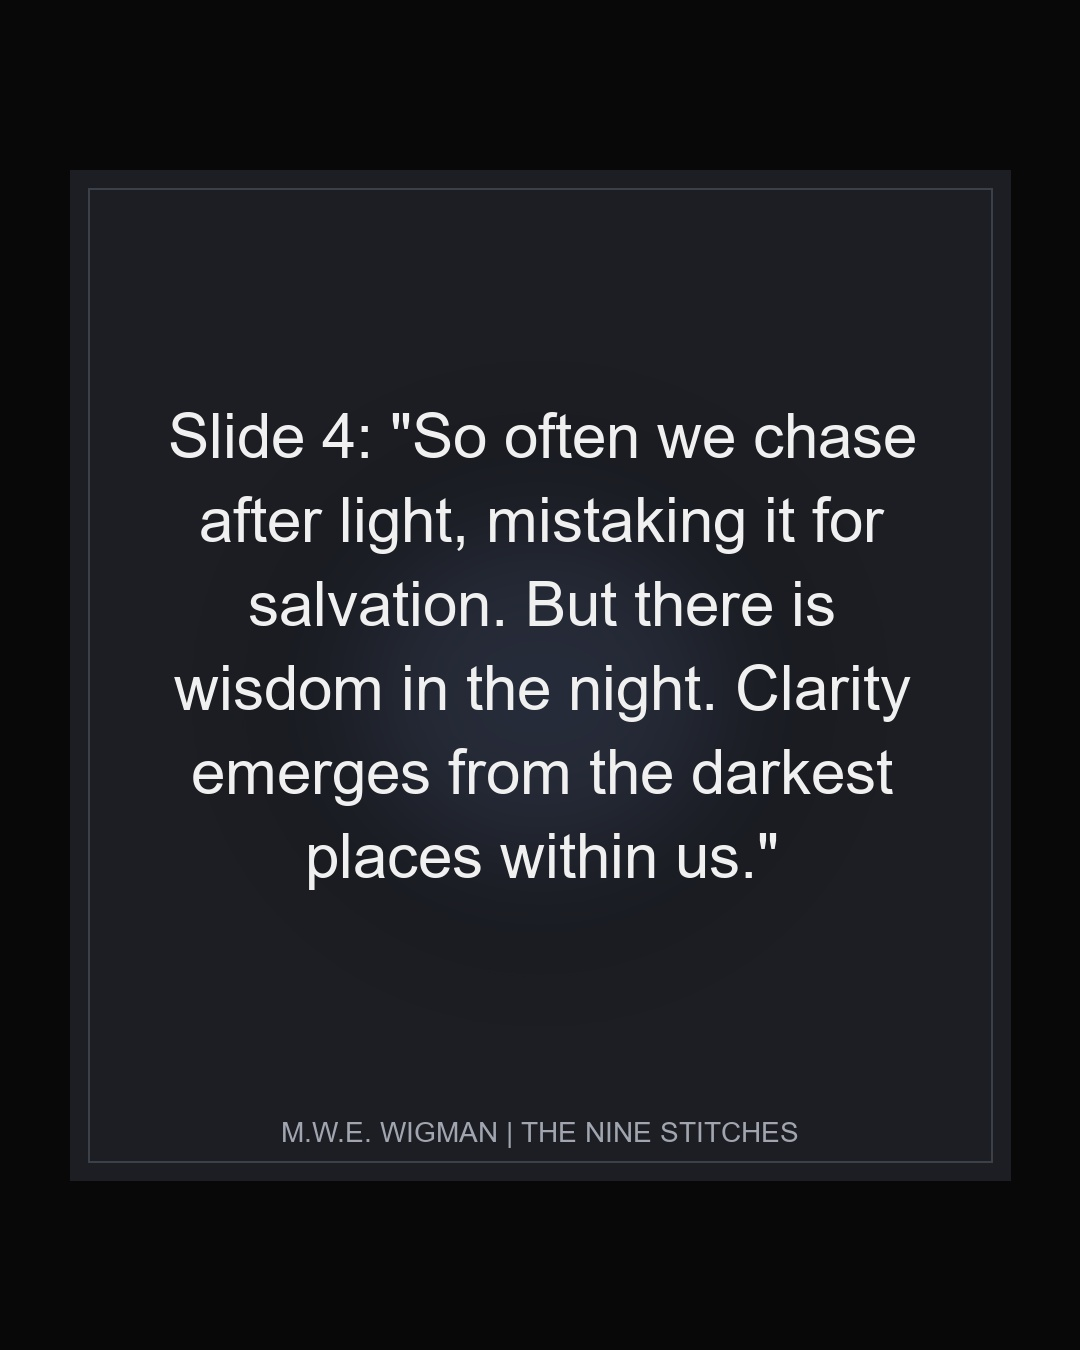
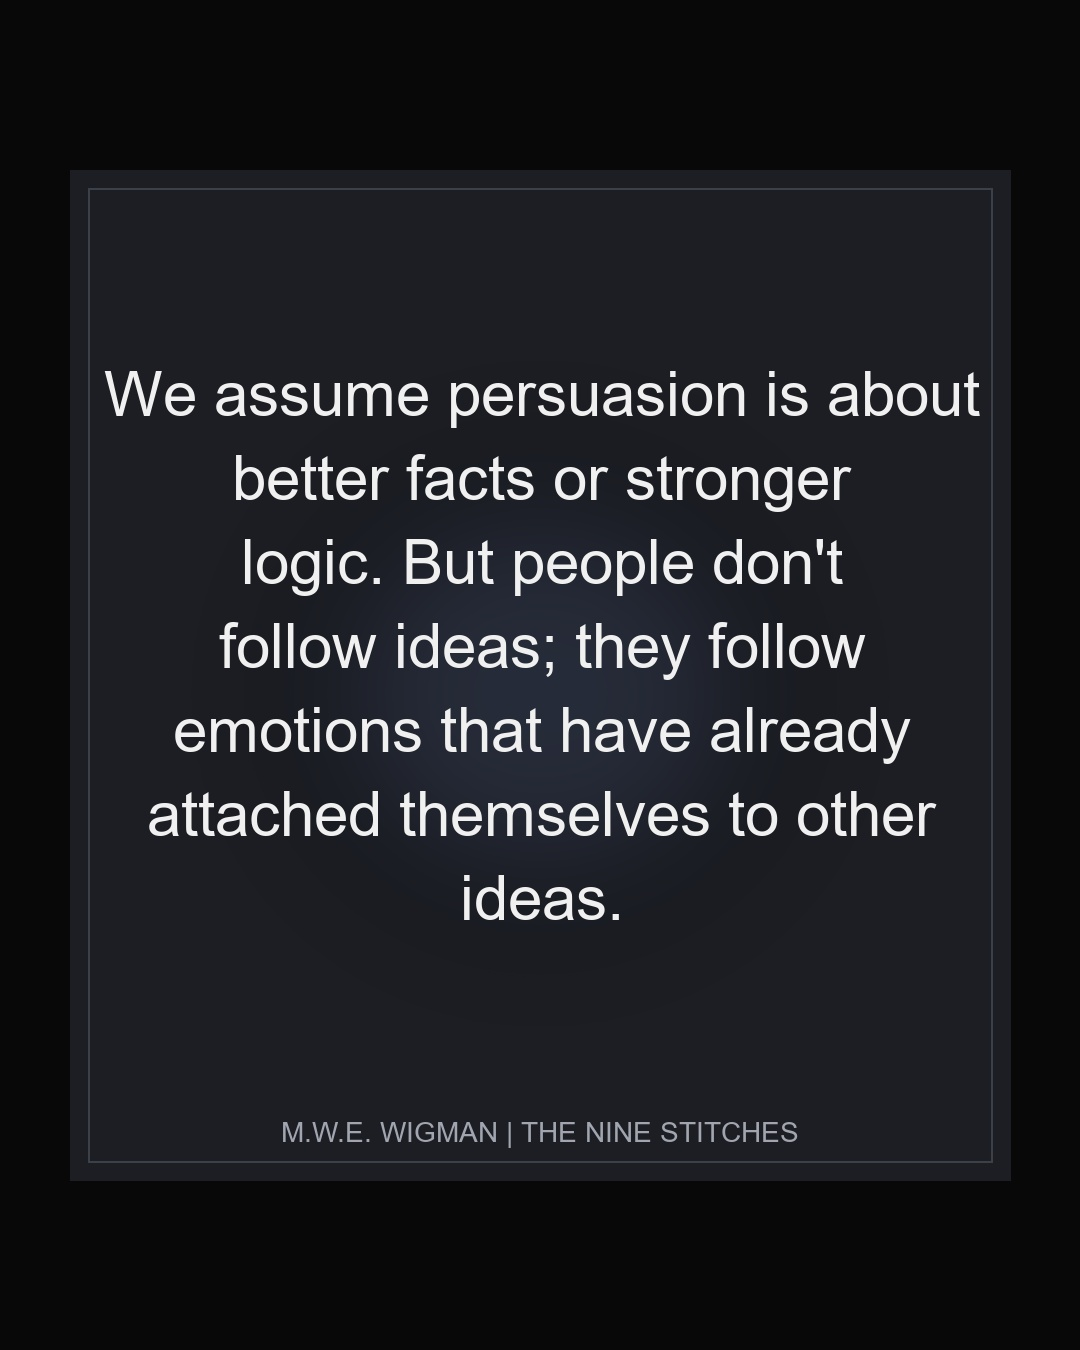
fix: regenerate LinkedIn carousel for post 75 with correct Ripples content
- bot.py: strip "Slide N:" prefix from AI Horde response
- generate_carousel_from_bundle.py: derive topic from caption text
  when topic/caption_prompt fields are missing (ensures slides match
  actual post content, not generic fallback)
- carousel.json: 5 slides for "Ripples and Resonance #17" with
  concise slide captions + summary post_caption
- carousel/: slide_1-5.jpg from carousel_20260912_045459
- state.json: post 75 removed from linkedin posted (re-post pending)

Changed region(s): [[0.0917, 0.28, 0.9167, 0.6844]]

diff --git a/scripts/generate_carousel_from_bundle.py b/scripts/generate_carousel_from_bundle.py
@@ -45,7 +45,23 @@ def main():
     if carousel_json.exists():
         print(f"⏭ carousel.json already exists for {post_id}. Skipping generation.")
         sys.exit(0)
-    topic = active.get("topic") or active.get("caption_prompt") or "Content"
+
+    # Derive topic from the bundle's caption text if topic/caption_prompt
+    # fields are missing — this ensures slides match the actual post content.
+    topic = active.get("topic") or active.get("caption_prompt")
+    caption_text = active.get("captions", {}).get("linkedin") or active.get("caption", "")
+    if not topic and caption_text:
+        # Use the first meaningful line of the caption as the topic
+        first_lines = []
+        for line in caption_text.splitlines():
+            line = line.strip()
+            if line and not line.startswith("#"):
+                first_lines.append(line)
+            if first_lines:
+                break
+        topic = " ".join(first_lines[:2]) if first_lines else "Content"
+    if not topic:
+        topic = "Content"
     pillar = active.get("pillar") or active.get("type") or "General"
     topic_clean = topic.strip().rstrip(".")
     timestamp = datetime.now().strftime("%Y%m%d_%H%M%S")

diff --git a/bot.py b/bot.py
@@ -1293,9 +1293,17 @@ def _build_carousel_narrative(pillar: str, topic: str, style: str = "dark") -> d
         text = ""
     if text:
         lines = [line.strip() for line in text.splitlines() if line.strip()]
-        if len(lines) >= 6:
-            slides = lines[:5]
-            post_caption = lines[5]
+        # Strip "Slide N:" prefix that AI Horde may include
+        import re
+        cleaned = []
+        for line in lines:
+            m = re.match(r'^[Ss]lide\s*\d+\s*[:.\-]?\s*(.*)$', line)
+            if m:
+                line = m.group(1).strip()
+            cleaned.append(line)
+        if len(cleaned) >= 6:
+            slides = cleaned[:5]
+            post_caption = cleaned[5]
             return {"slides": slides, "post_caption": post_caption}
 
     # Route 2: deterministic fallback
